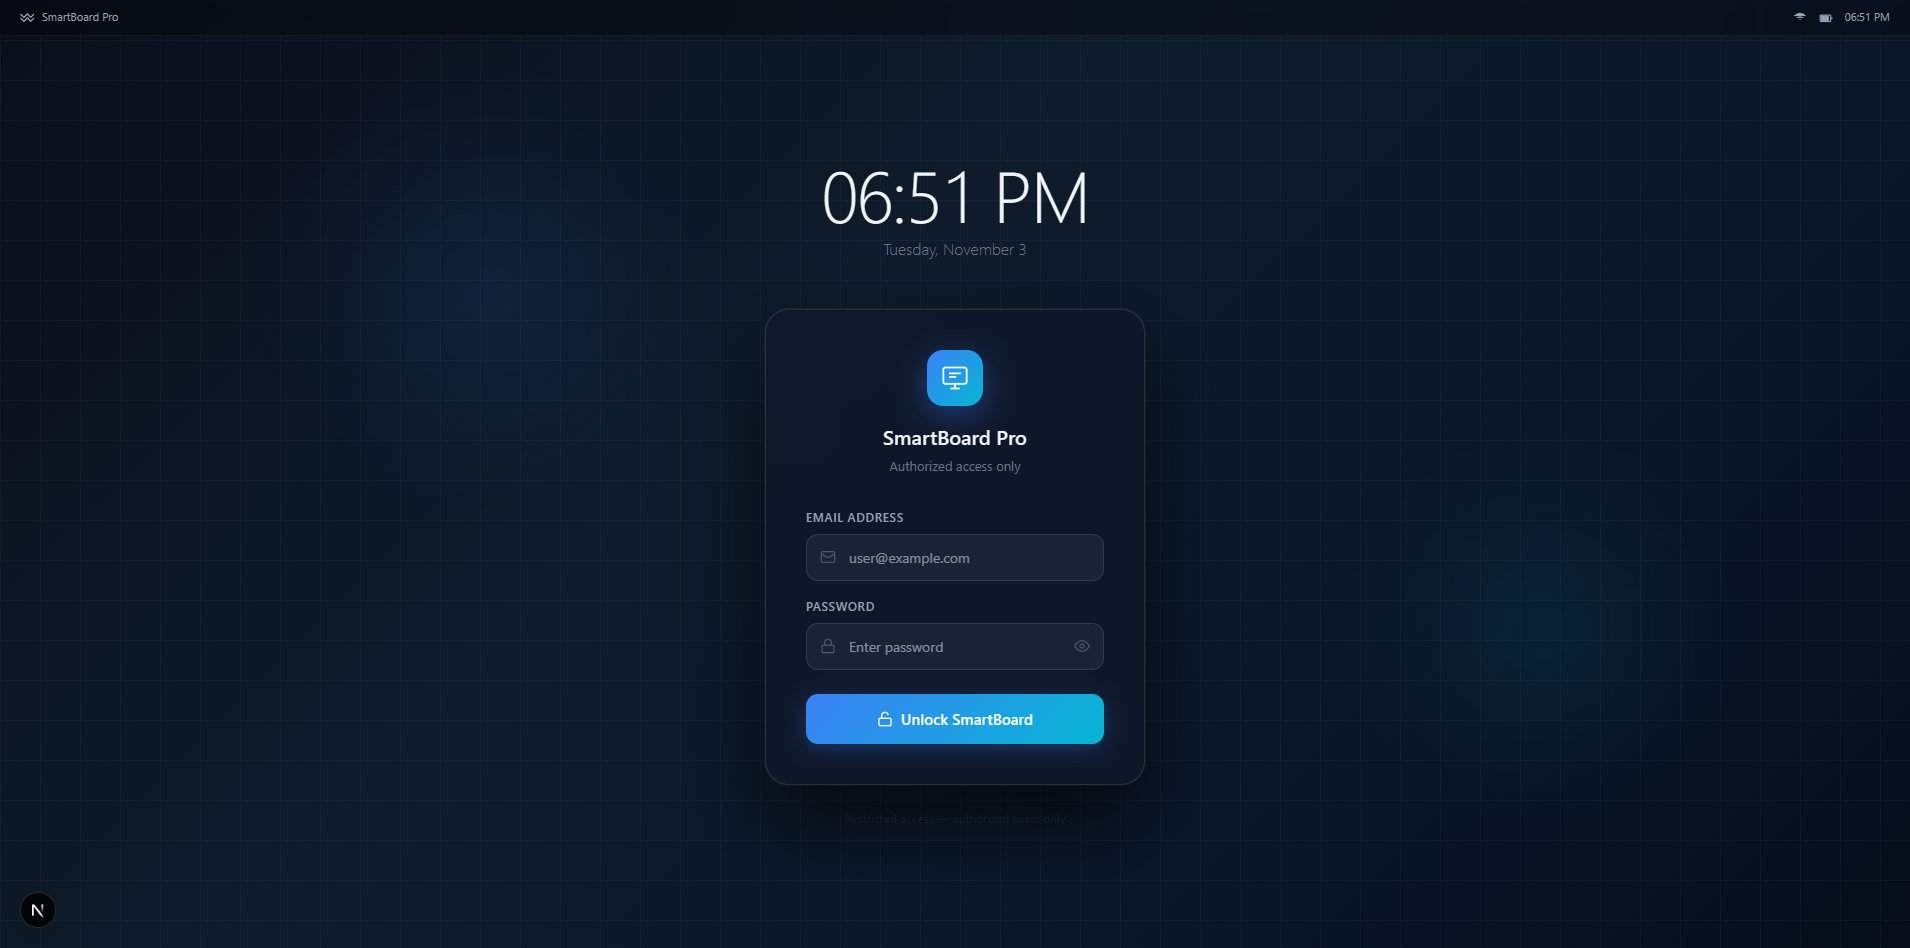
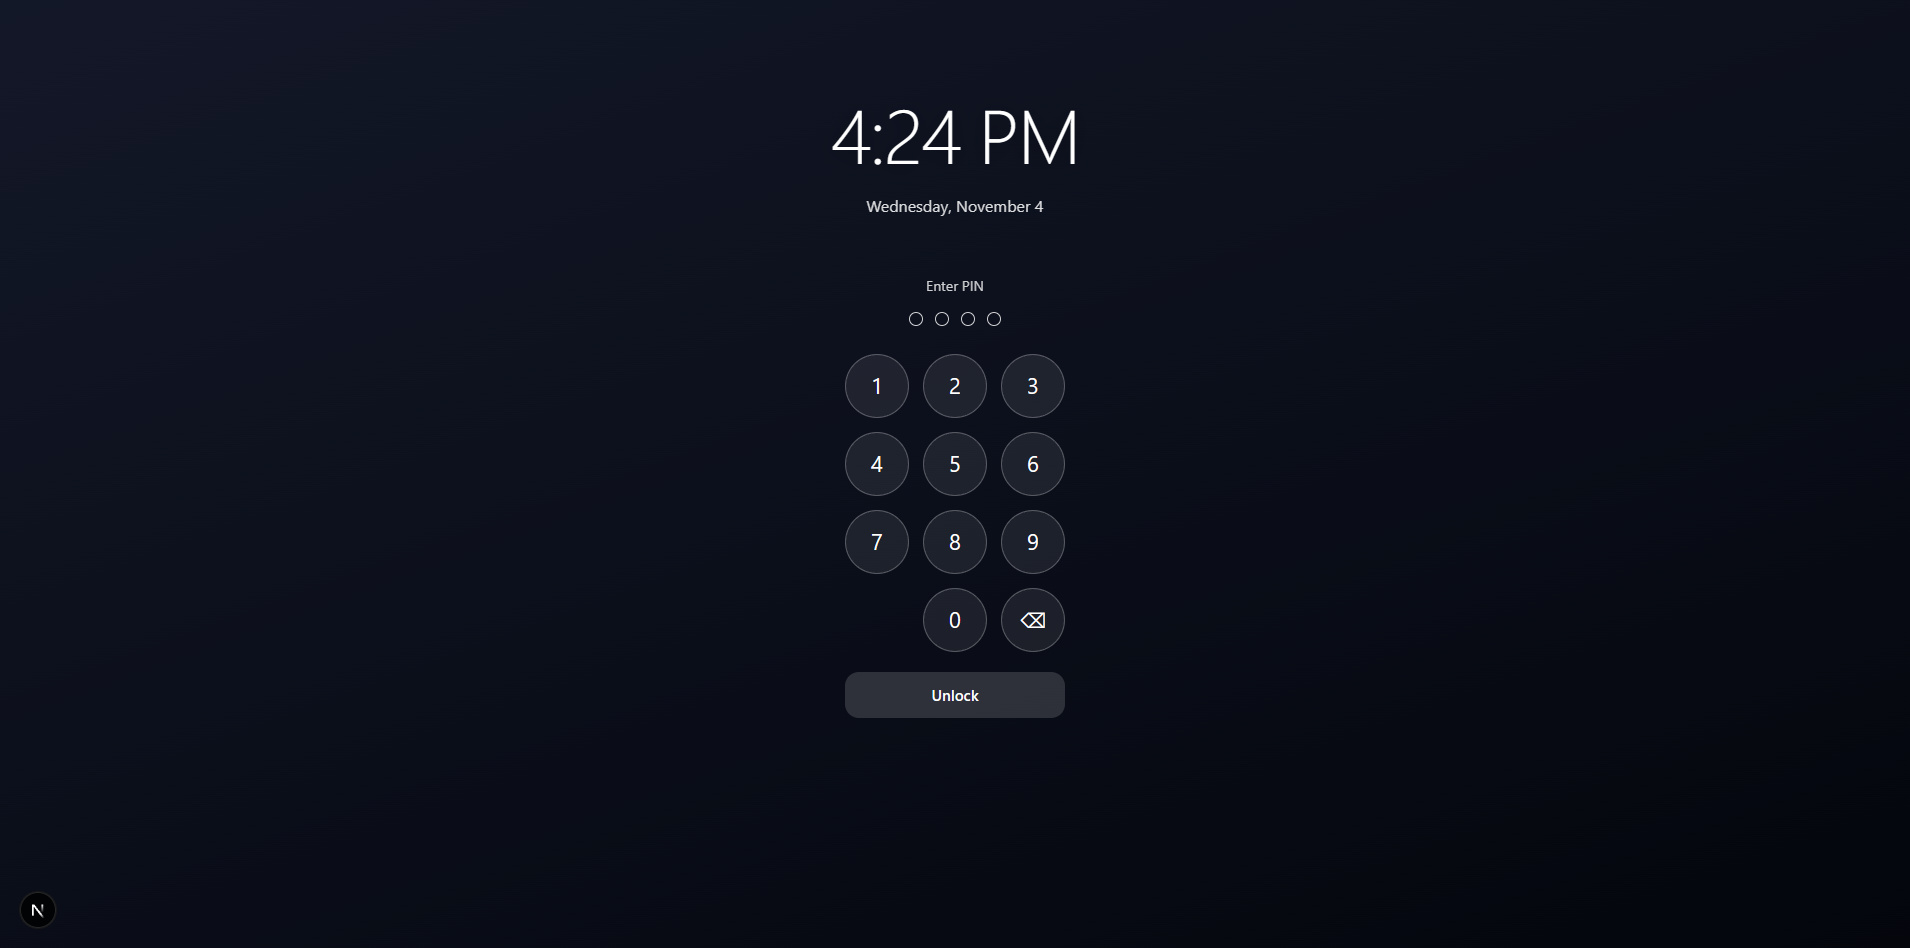
Bug fixes & Improvements

diff --git a/case-study.html b/case-study.html
@@ -4,7 +4,7 @@
 <head>
     <meta charset="UTF-8">
     <meta name="viewport" content="width=device-width, initial-scale=1.0">
-    <title>LTW Smart Board OS v1.0 — Official Documentation</title>
+    <title>LTW Smart Board OS v2.0 — Official Documentation</title>
     <style>
         :root {
             --bg-main: #020617;
@@ -337,7 +337,7 @@
         <div class="header-container">
             <div class="brand-wrapper">
                 <div class="brand-badge">LTW</div>
-                <span class="brand-title">LTW Smart Board OS v1.0</span>
+                <span class="brand-title">LTW Smart Board OS v2.0</span>
             </div>
             <span class="status-pill">
                 <span class="status-dot"></span>
@@ -352,10 +352,10 @@
         <!-- Hero / Title Section -->
         <div class="hero-section">
             <h1 class="hero-title">
-                LTW Smart Board OS v1.0 — Official Case Study & Documentation
+                LTW Smart Board OS v2.0 — Official Case Study & Documentation
             </h1>
             <p class="hero-description">
-                Welcome to the documentation hub for <strong style="color: #e2e8f0;">LTW Smart Board OS v1.0</strong>. I
+                Welcome to the documentation hub for <strong style="color: #e2e8f0;">LTW Smart Board OS v2.0</strong>. I
                 engineered this front-end interactive simulation system to make full smart board functionality
                 accessible in every possible way, eliminating the need for expensive physical smart board hardware.
             </p>
@@ -387,7 +387,7 @@
                 <span class="cyan-hash">#</span> Executive Summary & Context
             </h2>
             <p class="section-text" style="margin-bottom: 1rem;">
-                I engineered <strong>LTW Smart Board OS v1.0</strong> to bridge the gap in educational and collaborative
+                I engineered <strong>LTW Smart Board OS v2.0</strong> to bridge the gap in educational and collaborative
                 environments where access to physical interactive smart board hardware is unavailable. The core mission
                 was to make the complete smart board experience possible across standard web-enabled devices through an
                 immersive, browser-based operating system simulation.
@@ -481,7 +481,7 @@
 ├── README.md                      <span class="tree-comment"># Primary project overview and governance document</span>
 ├── SECURITY.md                    <span class="tree-comment"># Vulnerability reporting protocols and security posture</span>
 ├── SUPPORT.md                     <span class="tree-comment"># Official support channels and inquiry procedures</span>
-└── VERSION                        <span class="tree-comment"># Current major version tag (v1.0)</span></pre>
+└── VERSION                        <span class="tree-comment"># Current major version tag (v2.0)</span></pre>
             </div>
         </section>
 

diff --git a/README.md b/README.md
@@ -1,6 +1,6 @@
-# LTW Smart Board OS v1.0 — Official Documentation & Governance
+# LTW Smart Board OS v2.0 — Official Documentation & Governance
 
-Welcome to the public documentation and repository governance directory for **LTW Smart Board OS v1.0**.
+Welcome to the public documentation and repository governance directory for **LTW Smart Board OS v2.0**.
 
 > **IMPORTANT NOTICE REGARDING SOURCE CODE:**  
 > This public repository contains **strictly documentation, legal frameworks, and configuration metadata**. The underlying production application source code, execution binaries, and proprietary implementation scripts are maintained in a separate private repository and are **NOT** published, hosted, or accessible within this public project.
@@ -9,7 +9,7 @@ Welcome to the public documentation and repository governance directory for **LT
 
 ## Executive Summary
 
-**LTW Smart Board OS v1.0** is an interactive, front-end simulation of a smart interactive display operating system. Designed to emulate modern touch-screen classroom hardware interfaces, it provides a comprehensive workspace featuring a dynamic home launcher, a fully featured multi-tool whiteboard application, cloud storage integrations, wireless device casting panels, screen recording utilities, an app store interface, and complete system settings controls. All application data operates entirely within a client-side sandbox environment.
+**LTW Smart Board OS v2.0** is an interactive, front-end simulation of a smart interactive display operating system. Designed to emulate modern touch-screen classroom hardware interfaces, it provides a comprehensive workspace featuring a dynamic home launcher, a fully featured multi-tool whiteboard application, cloud storage integrations, wireless device casting panels, screen recording utilities, an app store interface, and complete system settings controls. All application data operates entirely within a client-side sandbox environment.
 
 ---
 
@@ -22,6 +22,12 @@ Welcome to the public documentation and repository governance directory for **LT
 - **Wireless Casting & Discovery:** Features a wireless screen casting panel equipped with simulated nearby device discovery.
 - **Screen Recording & Annotation Suite:** Includes a live recording indicator accompanied by a floating utility toolbar supporting screenshots, countdown timers, on-screen annotations, and instant sharing.
 - **App Store & System Settings:** Integrates an application marketplace panel with install/open states, alongside a settings control center featuring brightness and volume sliders, Wi-Fi/Bluetooth toggles, and a night mode switch, plus an embedded timer and stopwatch panel.
+# SmartBoard Pro
+- Home launcher screen with app grid, dock, quick toggles, notification shade, floating draggable toolbar
+- Wireless casting panel with device discovery simulation
+- Screen recording indicator + floating toolbar with screenshot/timer/annotate/share tools
+- App Store panel with install/open states
+- Settings panel with brightness/volume sliders and Wi-Fi/Bluetooth/night mode toggles
 
 ---
 
@@ -45,7 +51,7 @@ This public repository contains only governance and metadata assets structured a
 ├── README.md                      # Primary project overview and governance document
 ├── SECURITY.md                    # Vulnerability reporting protocols and security posture
 ├── SUPPORT.md                     # Official support channels and inquiry procedures
-└── VERSION                        # Current major version tag (v1.0)
+└── VERSION                        # Current major version tag (v2.0)
 ```
 
 ---

diff --git a/SECURITY.md b/SECURITY.md
@@ -2,7 +2,7 @@
 
 ## 1. Security Architecture & Scope Overview
 
-The **LTW Smart Board OS v1.0** is engineered around strict zero-trust and client-side execution principles. While the actual application source code is **not published in this repository**, the application architecture relies exclusively on browser-native Three.js WebGL rendering, 2D HTML5 canvas primitives, and local JavaScript evaluation engines to eliminate network exposure and remote server vulnerabilities.
+The **LTW Smart Board OS v2.0** is engineered around strict zero-trust and client-side execution principles. While the actual application source code is **not published in this repository**, the application architecture relies exclusively on browser-native Three.js WebGL rendering, 2D HTML5 canvas primitives, and local JavaScript evaluation engines to eliminate network exposure and remote server vulnerabilities.
 
 This repository hosts official governance documents, technical specifications, and security policies.
 

diff --git a/CODE_OF_CONDUCT.md b/CODE_OF_CONDUCT.md
@@ -2,7 +2,7 @@
 
 ## 1. Purpose & Core Philosophy
 
-This public repository serves as an official documentation and metadata portal for the **LTW Smart Board OS v1.0** project. We are dedicated to providing a respectful, professional, and safe environment for all community members, security auditors, developers, and visitors who interact with this repository.
+This public repository serves as an official documentation and metadata portal for the **LTW Smart Board OS v2.0** project. We are dedicated to providing a respectful, professional, and safe environment for all community members, security auditors, developers, and visitors who interact with this repository.
 
 Regardless of background, identity, level of experience, or technical expertise, every participant is expected to adhere to high standards of professional courtesy and constructive communication.
 

diff --git a/CHANGELOG.md b/CHANGELOG.md
@@ -4,6 +4,10 @@ All notable updates, structural refinements, and documentation releases for this
 
 The format is based on [Keep a Changelog](https://keepachangelog.com/en/1.0.0/), and this project adheres to Semantic Versioning.
 
+## [2.0.0] - 2026-08-08
+
+### Added
+- Bug fixes & improvements
 
 ## [1.0.0] - 2026-08-07
 

diff --git a/CONTRIBUTING.md b/CONTRIBUTING.md
@@ -1,6 +1,6 @@
 # Repository Contribution Guidelines
 
-Thank you for visiting the official repository directory for **LTW Smart Board OS v1.0**.
+Thank you for visiting the official repository directory for **LTW Smart Board OS v2.0**.
 
 ---
 

diff --git a/SUPPORT.md b/SUPPORT.md
@@ -1,6 +1,6 @@
 # Support & Inquiry Portal
 
-Welcome to the official support reference for **LTW Smart Board OS v1.0**.
+Welcome to the official support reference for **LTW Smart Board OS v2.0**.
 
 ---
 

diff --git a/VERSION.md b/VERSION.md
@@ -1,1 +1,1 @@
-1.0
+2.0
